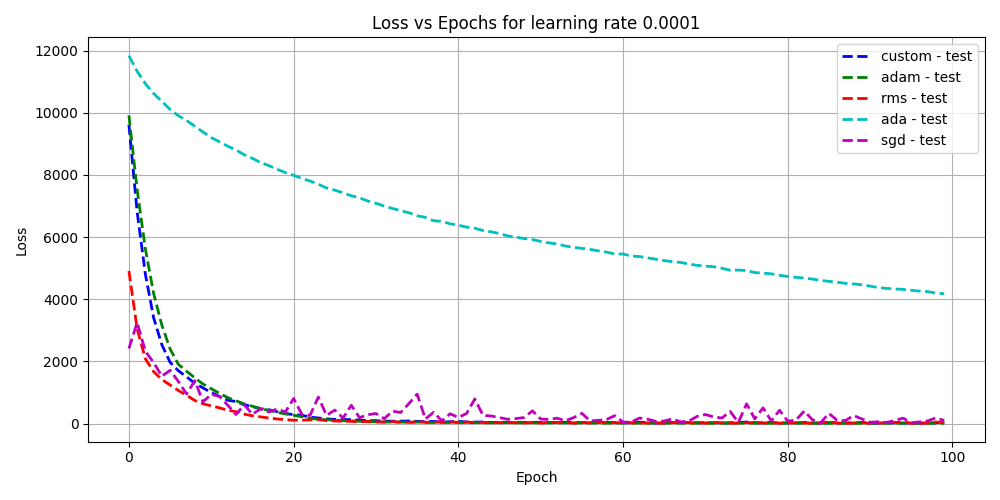
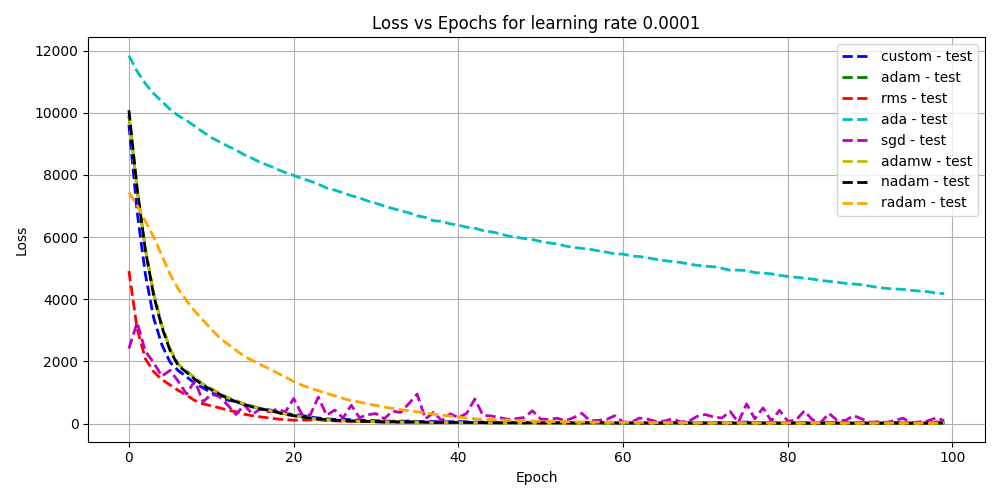
updated experiments

diff --git a/optimizer-test/test.py b/optimizer-test/test.py
@@ -5,7 +5,7 @@ from sklearn.preprocessing import LabelEncoder
 import torch
 from torch import nn
 from torch.utils.data import DataLoader, random_split
-from torch.optim import Adam, Adagrad, RMSprop, SGD
+from torch.optim import Adam, Adagrad, RMSprop, SGD, AdamW, RAdam, NAdam
 from model import Model
 from optimizer import CustomAdam
 from dataset import IrisDataset
@@ -37,6 +37,12 @@ def run_tests(optimizer, n_fts, n_cls, train_data, test_data, seed, lr):
         optim = Adagrad(model.parameters(), lr)
     elif optimizer == 'sgd':
         optim = SGD(model.parameters(), lr)
+    elif optimizer == 'adamw':
+        optim = AdamW(model.parameters(), lr)
+    elif optimizer == 'radam':
+        optim = RAdam(model.parameters(), lr)
+    elif optimizer == 'nadam':
+        optim = NAdam(model.parameters(), lr)
 
     train_losses = []
     test_losses = []
@@ -67,10 +73,10 @@ seed_env(SEED)
 
 device = 'cuda' if torch.cuda.is_available() else 'cpu'
 
-df = pd.read_csv('crop.csv')
+df = pd.read_csv('iris.csv')
 le = LabelEncoder()
-df['label'] = le.fit_transform(df[['label']])
-X, y = df.drop(columns=['label']), df['label']
+df['Species'] = le.fit_transform(df[['Species']])
+X, y = df.drop(columns=['Species']), df['Species']
 
 dataset = IrisDataset(X, y)
 train_size = int(0.8 * len(dataset))
@@ -78,7 +84,7 @@ test_size = len(dataset) - train_size
 
 train_dataset, test_dataset = random_split(dataset, [train_size, test_size])
 
-optimizers = ['custom', 'adam', 'rms', 'ada', 'sgd']
+optimizers = ['custom', 'adam', 'rms', 'ada', 'sgd', 'adamw', 'nadam', 'radam']
 lrs = [1e-3, 1e-4]
 
 experiment_data = {}
@@ -92,15 +98,13 @@ for lr in lrs:
         sample_dict = {'optimizer' : optimizer, 'train' : train, 'test' : test}
         experiment_data[lr].append(sample_dict)
 
-colors = ['b', 'g', 'r', 'c', 'm', 'y', 'k']
+colors = ['b', 'g', 'r', 'c', 'm', 'y', 'k', 'orange', 'gold', 'violet']
 
 for lr_idx, (lr, results) in enumerate(experiment_data.items()):
     plt.figure(figsize=(10, 5))
     for idx, res in enumerate(results):
         color = colors[idx % len(colors)]
-        # Plot train loss
         # plt.plot(res['train'], label=f"{res['optimizer']} - train", color=color, linestyle='-', marker=marker, linewidth=2)
-        # Plot test loss
         plt.plot(res['test'], label=f"{res['optimizer']} - test", color=color, linestyle='--', linewidth=2)
     plt.title(f"Loss vs Epochs for learning rate {lr}")
     plt.xlabel("Epoch")
@@ -108,4 +112,4 @@ for lr_idx, (lr, results) in enumerate(experiment_data.items()):
     plt.legend()
     plt.grid(True)
     plt.tight_layout()
-    plt.savefig(f'crop-{lr}.png')
+    plt.savefig(f'iris-{lr}.png')
